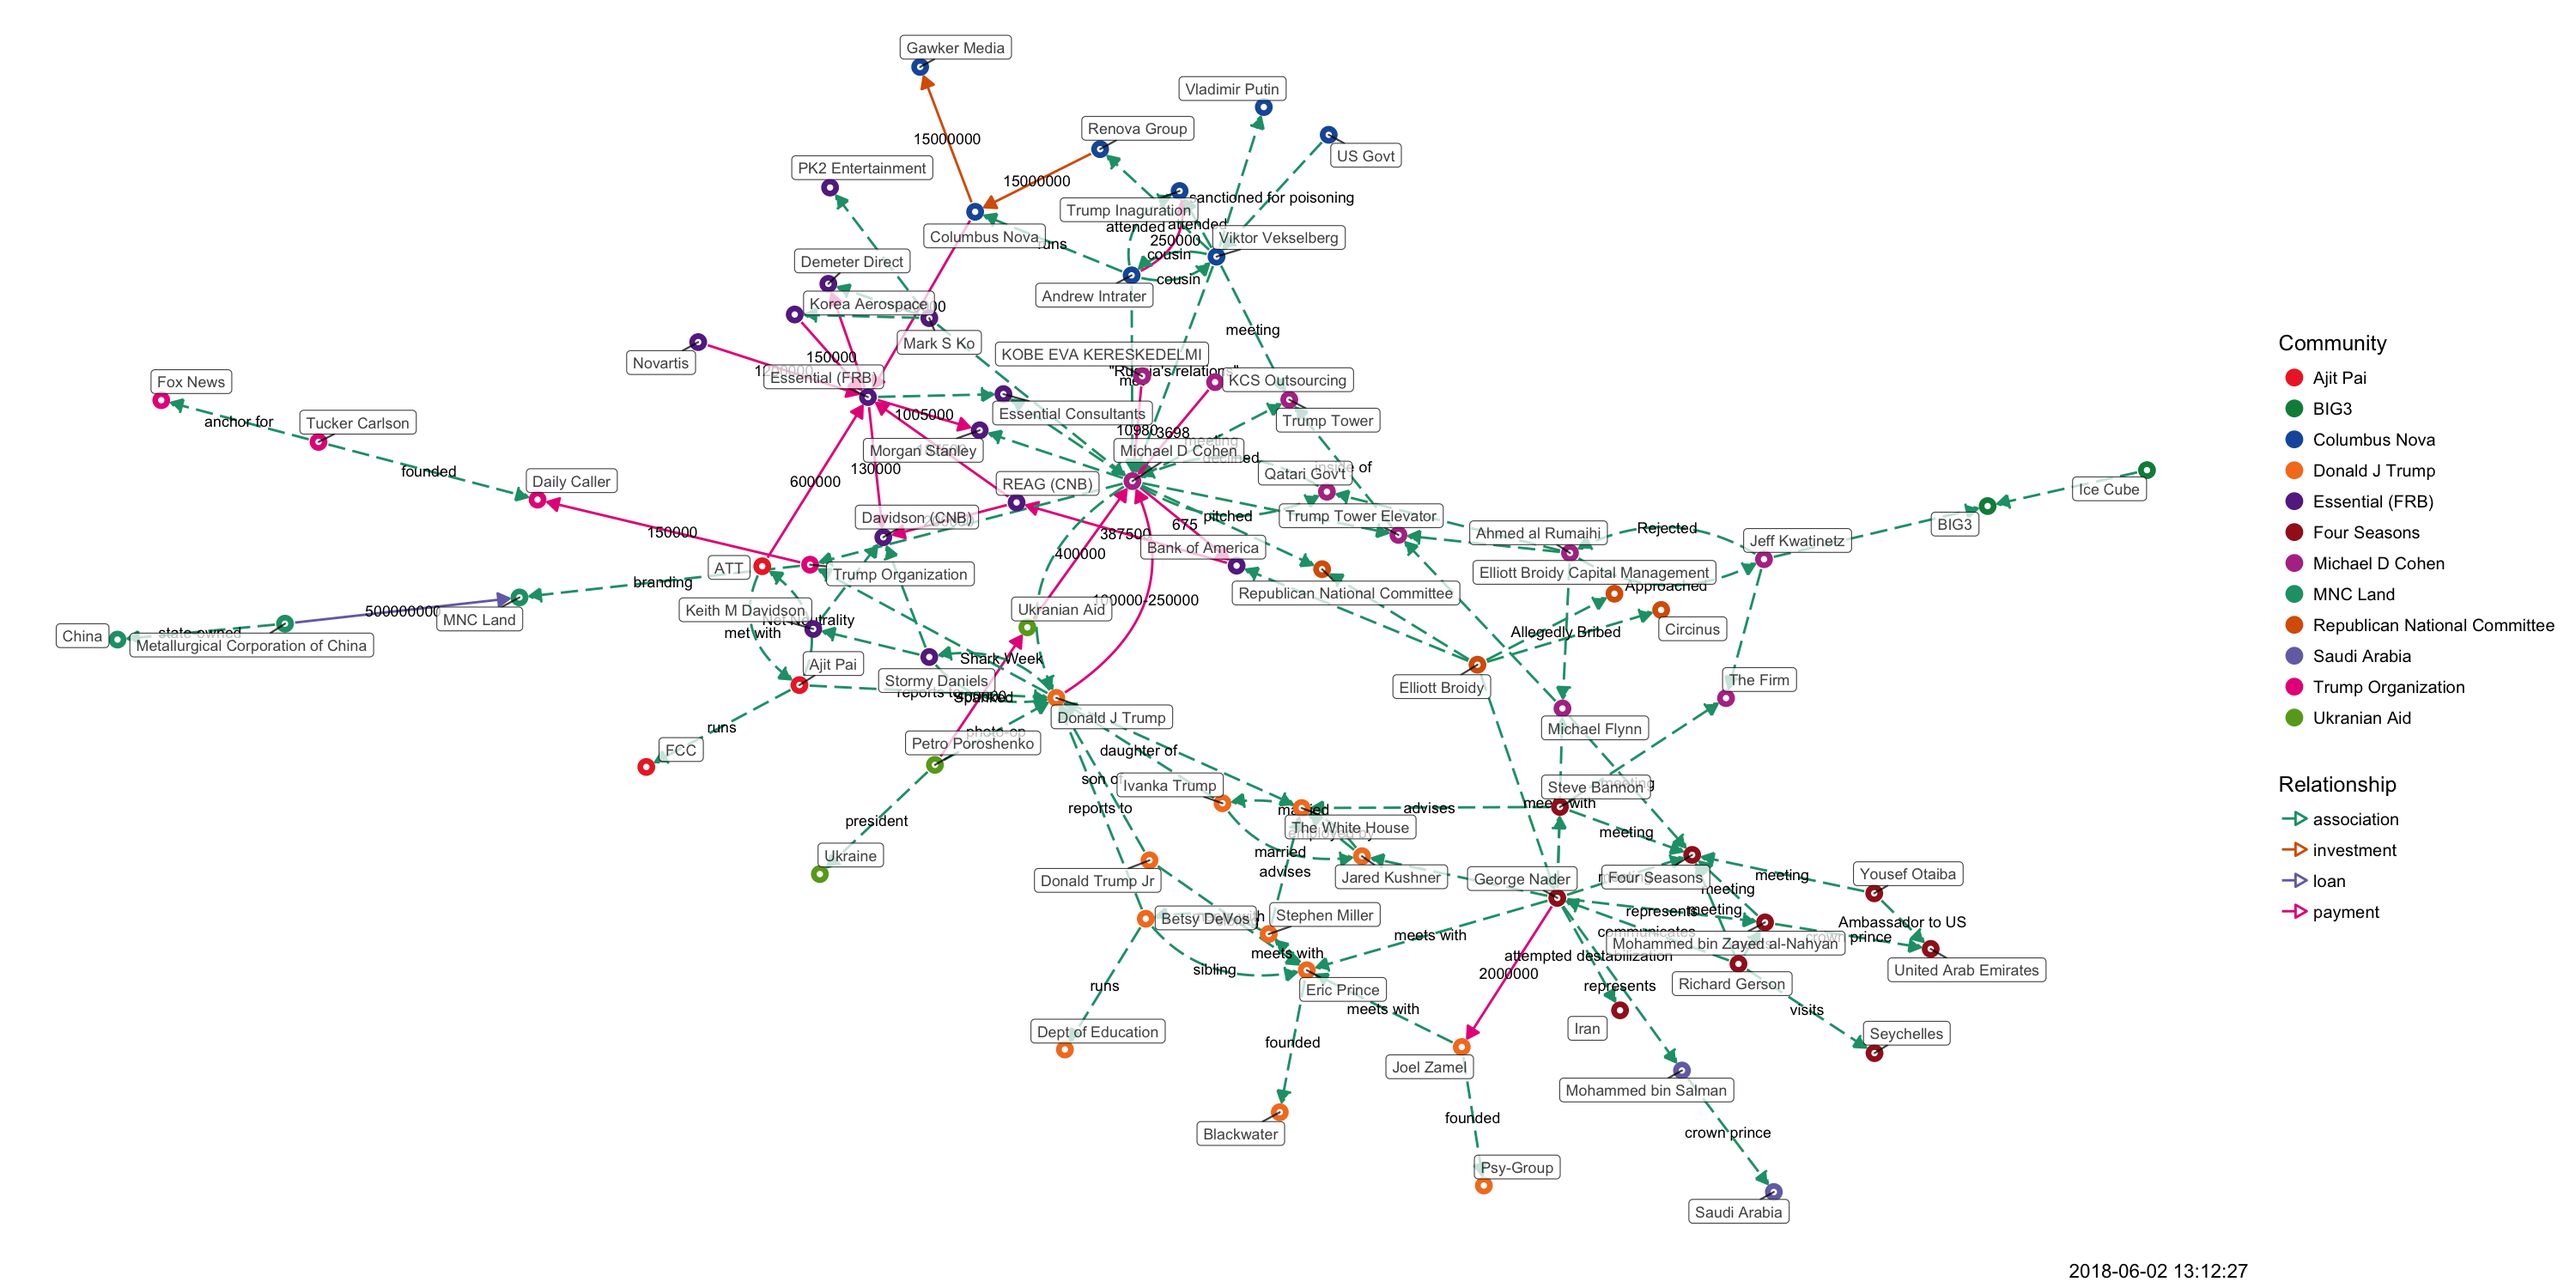
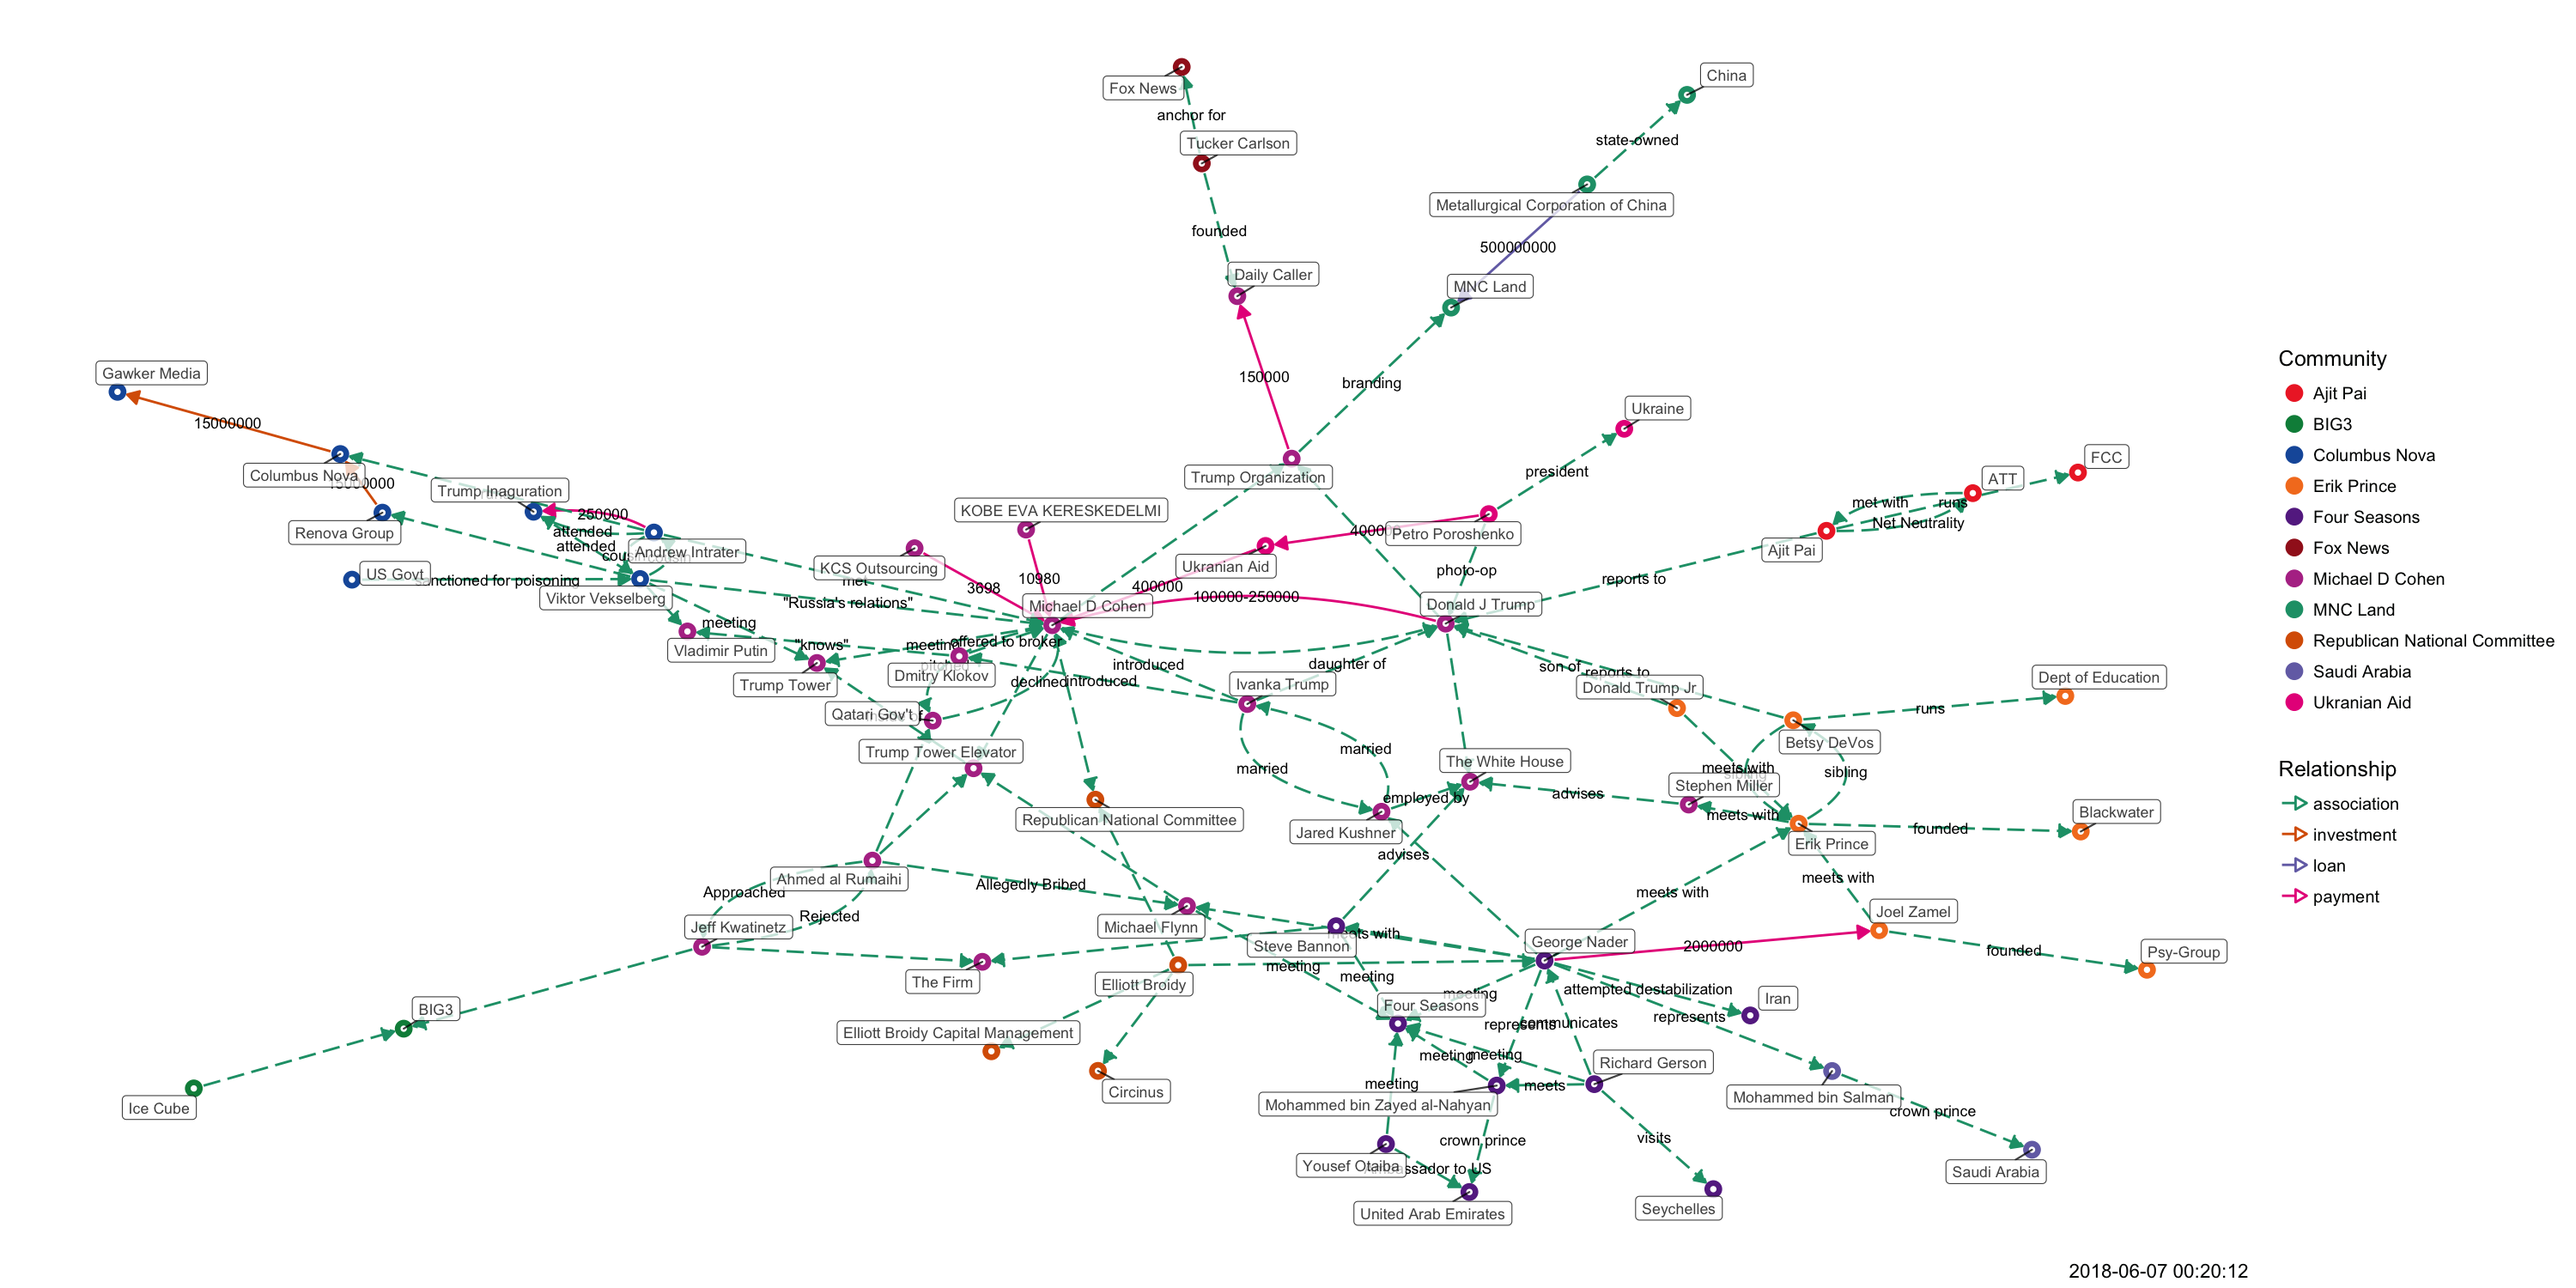
updated

diff --git a/docs/tangled-d3.html b/docs/tangled-d3.html
@@ -1143,11 +1143,11 @@ return function(){for(var n=0,e=0;e<t;++e)n+=Math.random();return n}},um=functio
 </head>
 <body style="background-color: white;">
 <div id="htmlwidget_container">
-<div id="htmlwidget-f78ab05cdcf0c27d1372" class="forceNetwork html-widget" style="width:960px;height:500px;">
+<div id="htmlwidget-403d7b2f95289ec16ff1" class="forceNetwork html-widget" style="width:960px;height:500px;">
 
 </div>
 </div>
-<script type="application/json" data-for="htmlwidget-f78ab05cdcf0c27d1372">{"x":{"links":{"source":[0,1,2,3,3,4,5,5,5,6,7,8,9,10,11,12,13,14,14,15,16,17,5,11,0,0,18,0,18,18,0,19,11,20,21,21,18,22,22,22,22,11,4,4,21,11,11,23,23,23,23,4,11,24,25,25,26,27,26,26,28,25,25,29,29,29,1,28,22,6,6,30,30,31,31,11,32,33,33,6,34,35,36,6,6,37,38,36,39,35,6,6,34,36,40,40,40,16,10,13,13,11,18,18,41,42,42,42,42,6,38,24,28,43,43],"target":[44,5,14,5,45,11,46,47,48,35,11,11,5,49,2,5,17,46,5,3,50,11,51,51,3,11,15,18,0,44,44,18,4,46,46,20,52,53,54,55,2,48,56,21,4,16,53,47,57,11,9,16,41,41,41,26,25,58,59,58,59,32,24,1,4,60,29,56,6,28,30,56,31,30,4,32,11,50,61,36,36,36,62,38,37,63,64,39,56,65,24,66,4,40,36,67,4,49,68,4,69,70,70,11,70,71,38,6,72,72,72,72,72,72,64],"colour":["red","red","red","red","blue","red","red","red","red","red","red","red","red","blue","red","red","red","red","red","blue","red","red","blue","blue","blue","blue","blue","blue","blue","blue","blue","blue","blue","blue","blue","blue","blue","blue","blue","blue","blue","blue","blue","blue","blue","blue","blue","blue","blue","blue","blue","blue","blue","blue","blue","blue","blue","blue","blue","blue","blue","blue","blue","blue","blue","blue","blue","blue","blue","blue","blue","blue","blue","blue","blue","blue","blue","blue","blue","blue","blue","blue","blue","blue","blue","blue","blue","blue","blue","blue","blue","blue","blue","blue","blue","blue","blue","blue","blue","blue","blue","blue","blue","blue","blue","blue","blue","blue","blue","blue","blue","blue","blue","blue","blue"]},"nodes":{"name":["Andrew Intrater","ATT","Bank of America","Columbus Nova","Donald J Trump","Essential (FRB)","George Nader","KCS Outsourcing","KOBE EVA KERESKEDELMI","Korea Aerospace","Metallurgical Corporation of China","Michael D Cohen","Novartis","Petro Poroshenko","REAG (CNB)","Renova Group","Trump Organization","Ukranian Aid","Viktor Vekselberg","US Govt","Keith M Davidson","Stormy Daniels","Elliott Broidy","Mark S Ko","Michael Flynn","Ahmed al Rumaihi","Jeff Kwatinetz","Ice Cube","Steve Bannon","Ajit Pai","Jared Kushner","Ivanka Trump","Qatari Gov't","Tucker Carlson","Donald Trump Jr","Joel Zamel","Eric Prince","Mohammed bin Salman","Mohammed bin Zayed al-Nahyan","Stephen Miller","Betsy DeVos","Trump Tower Elevator","Richard Gerson","Yousef Otaiba","Trump Inaguration","Gawker Media","Davidson (CNB)","Demeter Direct","Morgan Stanley","MNC Land","Daily Caller","Essential Consultants","Vladimir Putin","Republican National Committee","Elliott Broidy Capital Management","Circinus","The White House","PK2 Entertainment","BIG3","The Firm","FCC","Fox News","Blackwater","Saudi Arabia","United Arab Emirates","Psy-Group","Iran","Dept of Education","China","Ukraine","Trump Tower","Seychelles","Four Seasons"],"group":["5","10","1","5","2","1","4","3","3","1","8","3","1","9","1","5","6","9","5","5","1","1","7","1","3","3","3","12","4","10","2","2","3","6","2","2","2","11","4","2","2","3","4","4","5","5","1","1","1","8","6","1","5","7","7","7","2","1","12","3","10","6","2","11","4","2","4","2","8","9","3","4","4"]},"options":{"NodeID":"name","Group":"group","colourScale":"d3.scaleOrdinal(d3.schemeCategory20);","fontSize":20,"fontFamily":"serif","clickTextSize":50,"linkDistance":50,"linkWidth":"function(d) { return Math.sqrt(d.value); }","charge":-100,"opacity":1,"zoom":false,"legend":false,"arrows":false,"nodesize":false,"radiusCalculation":" Math.sqrt(d.nodesize)+6","bounded":false,"opacityNoHover":1,"clickAction":null}},"evals":[],"jsHooks":[]}</script>
-<script type="application/htmlwidget-sizing" data-for="htmlwidget-f78ab05cdcf0c27d1372">{"viewer":{"width":450,"height":350,"padding":10,"fill":true},"browser":{"width":960,"height":500,"padding":10,"fill":true}}</script>
+<script type="application/json" data-for="htmlwidget-403d7b2f95289ec16ff1">{"x":{"links":{"source":[0,2,3,4,5,6,7,9,10,11,12,0,0,13,0,13,13,0,14,8,13,15,15,15,3,8,8,3,8,16,17,17,18,19,18,18,20,17,17,21,21,21,1,20,15,4,4,22,22,23,23,8,24,25,25,4,26,27,28,4,4,29,30,28,31,27,4,4,26,28,32,32,32,11,7,9,9,8,13,13,33,34,34,34,34,4,30,16,20,35,35,23,23,36,36],"target":[37,38,8,27,8,8,39,12,2,40,8,2,8,10,13,0,37,37,13,3,41,42,43,44,45,11,42,11,33,33,33,18,17,46,47,46,47,24,16,1,3,48,21,45,4,20,22,45,23,22,3,24,8,40,49,28,28,28,50,30,29,51,52,31,45,53,16,54,3,32,28,55,3,39,56,3,57,58,58,8,58,59,30,4,60,60,60,60,60,60,52,8,36,8,41],"colour":["red","blue","red","red","red","red","blue","red","blue","red","red","blue","blue","blue","blue","blue","blue","blue","blue","blue","blue","blue","blue","blue","blue","blue","blue","blue","blue","blue","blue","blue","blue","blue","blue","blue","blue","blue","blue","blue","blue","blue","blue","blue","blue","blue","blue","blue","blue","blue","blue","blue","blue","blue","blue","blue","blue","blue","blue","blue","blue","blue","blue","blue","blue","blue","blue","blue","blue","blue","blue","blue","blue","blue","blue","blue","blue","blue","blue","blue","blue","blue","blue","blue","blue","blue","blue","blue","blue","blue","blue","blue","blue","blue","blue"]},"nodes":{"name":["Andrew Intrater","ATT","Columbus Nova","Donald J Trump","George Nader","KCS Outsourcing","KOBE EVA KERESKEDELMI","Metallurgical Corporation of China","Michael D Cohen","Petro Poroshenko","Renova Group","Trump Organization","Ukranian Aid","Viktor Vekselberg","US Govt","Elliott Broidy","Michael Flynn","Ahmed al Rumaihi","Jeff Kwatinetz","Ice Cube","Steve Bannon","Ajit Pai","Jared Kushner","Ivanka Trump","Qatari Gov't","Tucker Carlson","Donald Trump Jr","Joel Zamel","Erik Prince","Mohammed bin Salman","Mohammed bin Zayed al-Nahyan","Stephen Miller","Betsy DeVos","Trump Tower Elevator","Richard Gerson","Yousef Otaiba","Dmitry Klokov","Trump Inaguration","Gawker Media","MNC Land","Daily Caller","Vladimir Putin","Republican National Committee","Elliott Broidy Capital Management","Circinus","The White House","BIG3","The Firm","FCC","Fox News","Blackwater","Saudi Arabia","United Arab Emirates","Psy-Group","Iran","Dept of Education","China","Ukraine","Trump Tower","Seychelles","Four Seasons"],"group":["5","9","5","1","3","1","1","7","1","8","5","1","8","5","5","6","1","1","1","11","3","9","1","1","1","12","4","4","4","10","3","1","4","1","3","3","1","5","5","7","1","1","6","6","6","1","11","1","9","12","4","10","3","4","3","4","7","8","1","3","3"]},"options":{"NodeID":"name","Group":"group","colourScale":"d3.scaleOrdinal(d3.schemeCategory20);","fontSize":20,"fontFamily":"serif","clickTextSize":50,"linkDistance":50,"linkWidth":"function(d) { return Math.sqrt(d.value); }","charge":-100,"opacity":1,"zoom":false,"legend":false,"arrows":false,"nodesize":false,"radiusCalculation":" Math.sqrt(d.nodesize)+6","bounded":false,"opacityNoHover":1,"clickAction":null}},"evals":[],"jsHooks":[]}</script>
+<script type="application/htmlwidget-sizing" data-for="htmlwidget-403d7b2f95289ec16ff1">{"viewer":{"width":450,"height":350,"padding":10,"fill":true},"browser":{"width":960,"height":500,"padding":10,"fill":true}}</script>
 </body>
 </html>
